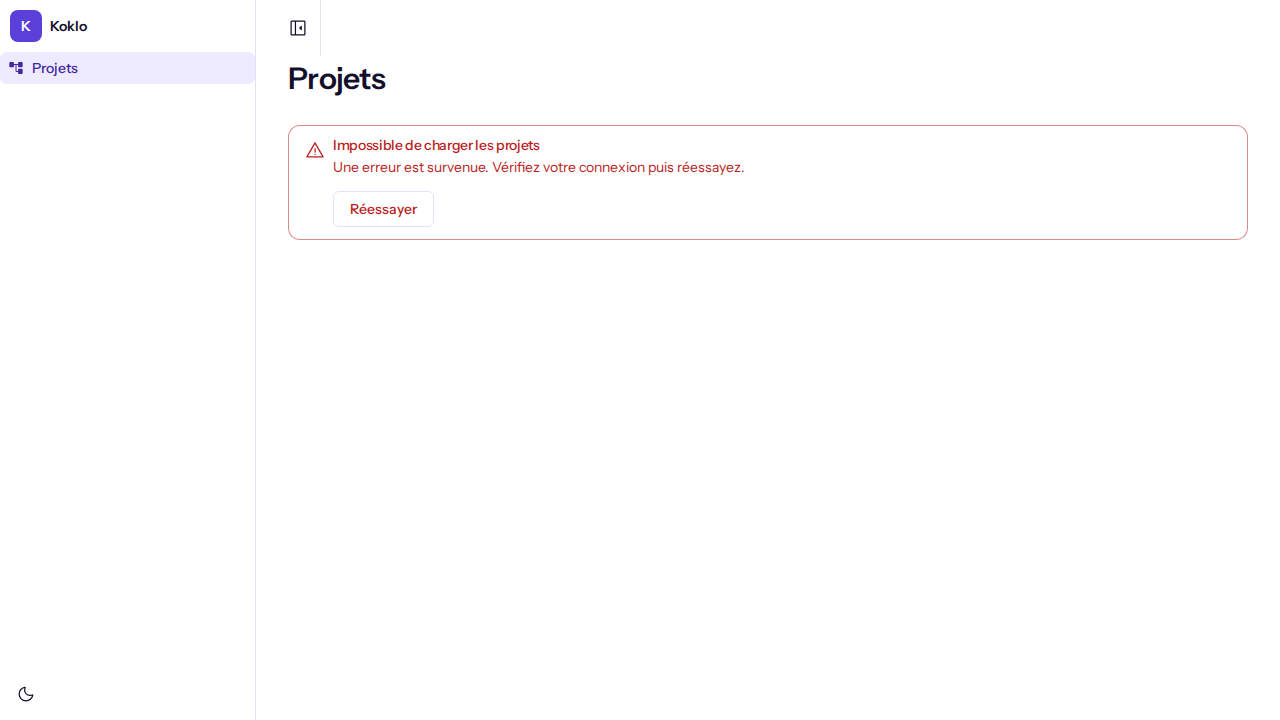
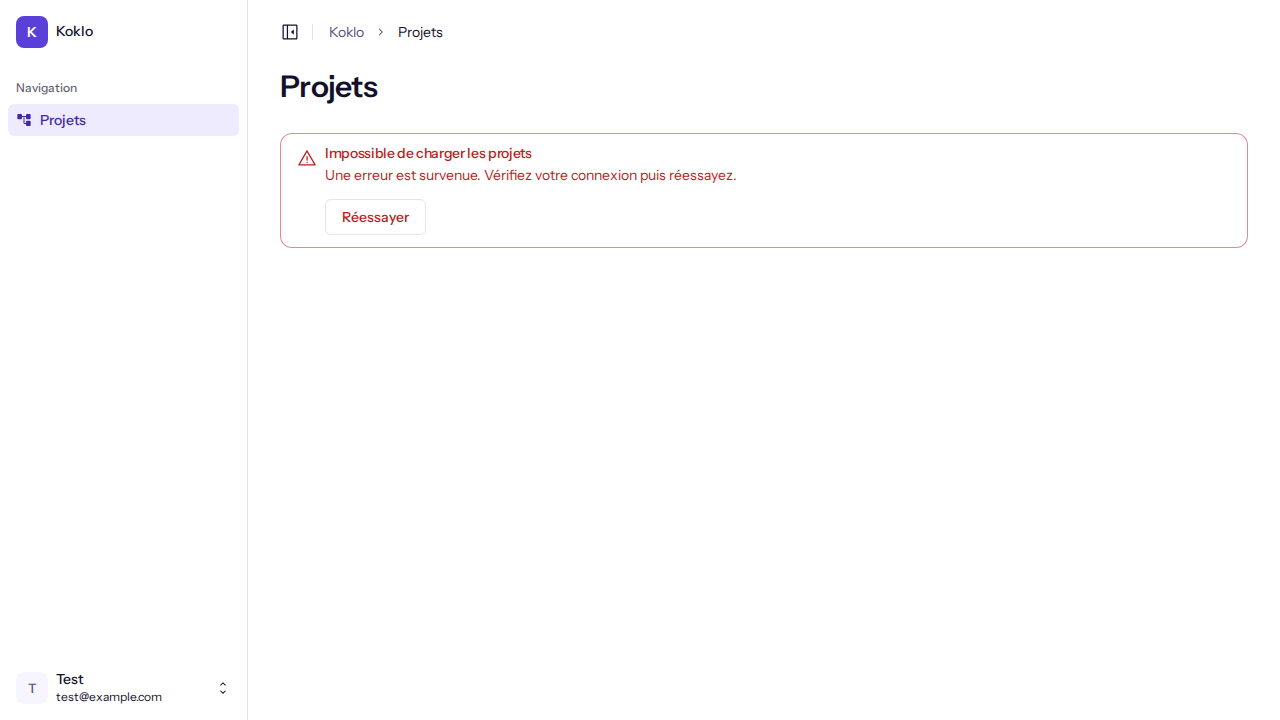
docs(design): update S-login and S-projects and record the TK-85 correction
Screen sheets v3 with the sidebar-07 / login-05 decisions, real light and dark
captures, functional guide, quality notes and the 2026-10-28 correction report.

Refs TK-85

diff --git a/docs/quality-and-operations.md b/docs/quality-and-operations.md
@@ -26,9 +26,6 @@ covers_commit: 558d95f
   `deep-import` fixture (`web` importing `@fixture/ui/src/button`) must make
   `check-deep-imports` exit 1; `exports` patterns and the real repository (no deep
   import) are also covered. Do not "fix" the violating fixtures.
-- **Size gate under test** (`packages/config/test/check-size.test.ts`): covers the
-  acceptance criteria of TK-2 (301-line source file fails, waiver handling, migrations
-  and generated files not counted). Test names and fixtures: see the file.
 - **Contract tests** (`packages/contract/test/contract.test.ts`, TK-9): CT-2/CT-3 check
   the `health` and `project.list` schemas by validating accepted and rejected values;
   CT-4 checks explicit, unique method + path pairs (`GET /health`, `GET /projects`);
@@ -105,14 +102,6 @@ covers_commit: 558d95f
   `turbo boundaries` and the deep-import check (TK-3, see
   [architecture.md](architecture.md#package-boundaries-tk-3)). Any of the three failing
   fails the lint.
-- `pnpm check:size` (also run by `pnpm lint`, after `biome ci`): fails when a source
-  file exceeds 300 lines or a test file 500 lines, unless covered by a non-expired
-  waiver in `.koklo/waivers.yaml`. Failure output is one line per file on stderr,
-  prefixed `check:size`, e.g. `path/file.ts : 301 lignes (limite 300)`; an expired
-  waiver adds `dérogation expirée le <date> (<auteur>)`. Details and the waiver
-  format: [architecture.md](architecture.md#file-size-gate-checksize-tk-2).
-  Adding a waiver: append an entry to `waivers:` in `.koklo/waivers.yaml` with a real
-  justification and an expiry date; remove it once the file is split.
 - `pnpm typecheck`: `tsc --noEmit` against `tsconfig.base.json` (TypeScript 7.0.2).
 - `pnpm build`: `packages/config` has nothing to build (`echo 'nothing to build'`);
   `packages/ui` compiles its entry point (components, `Icon`, `cn`) to `dist/` with `tsc -p tsconfig.build.json`.
@@ -259,28 +248,29 @@ install --with-deps chromium` first). `turbo run e2e` still only runs the stub-A
 
 ## App shell and login blocks (TK-85)
 
-`apps/web` uses the shadcn blocks `sidebar-07` (app shell) and `login-05` (login page), installed
-with the shadcn CLI; shared components live in `@koklo/ui`. Only tokens, icons (`Icon`, Material
-Symbols Rounded) and copy differ from the blocks. Screen contracts: `design/screens/S-login.md`
-and `design/screens/S-projects.md` (both version 2).
+`apps/web` uses the shadcn blocks `sidebar-07` (app shell) and `login-05` (login page), **generated by
+the shadcn CLI 4.23.0** (`npx shadcn@latest add sidebar-07` then `add login-05 --overwrite`, from
+`apps/web`, configured by `apps/web/components.json`). Block files are kept faithful to the CLI output:
+`app-sidebar`, `nav-main`, `nav-projects`, `nav-user`, `team-switcher`, `login-form` in
+`apps/web/src/components`, and `sidebar`, `breadcrumb`, `collapsible`, `field`, `label` in
+`packages/ui/src/components`. The shell is mounted by `apps/web/src/app/projects/layout.tsx`.
+Only imports, tokens, icons (`Icon`, Material Symbols Rounded) and French copy differ from the blocks.
+Screen contracts: `design/screens/S-login.md` and `design/screens/S-projects.md`.
 
-Tests that guard it (viewport simulated by `test/viewport.ts` in `apps/web` and `packages/ui`;
-`setup.ts` of both packages updated accordingly):
-- `packages/ui/test/sidebar.test.tsx`: exports, `SidebarTrigger` (named button, `aria-expanded`,
-  Enter and Ctrl+B), no `complementary` landmark, mobile `Sheet` (Escape closes and returns focus
-  to the trigger), 768 px breakpoint (768 desktop, 767 mobile), tooltip on keyboard focus.
-- `packages/ui/test/sidebar-tokens.test.ts`: every `--sidebar-*` variable in `theme.css` is
-  colour-literal free in light and dark, exposed to Tailwind, width `15.5rem` (248 px).
-- `packages/ui/test/no-hardcoded-colors.test.ts`: no hard-coded colour and no inline SVG
-  (Lucide) in the added components.
-- `apps/web/test/app-shell-sidebar.test.tsx`: `data-testid="app-shell"` kept, one `main`,
-  `nav` "Navigation principale" with `aria-current="page"`, no demo data, focus order, light/dark
-  toggle, mobile `Sheet`.
-- `apps/web/test/login-05.test.tsx`: single GitHub provider, no input field, layout, states
-  (redirecting with `aria-busy`, then error alert).
-- Playwright (stub API, `apps/web/e2e/sidebar.spec.ts`): keyboard collapse/expand, Tab order with
-  visible focus, axe WCAG AA in light and dark, expanded and collapsed, mobile `Sheet`. In
-  `projects.spec.ts` the 375 px test now opens the sidebar ("Ouvrir la barre latérale") before
-  checking the 44 px theme toggle, which lives inside the `Sheet` on mobile.
+Lint: `packages/ui/biome.json` has one override, limited to the five generated `packages/ui` files,
+turning off 7 rules their upstream code violates (function length, `noDocumentCookie`, `noDoubleEquals`,
+`noArrayIndexKey`, `useExhaustiveDependencies`, `useSemanticElements`, `useFocusableInteractive`).
+Each was checked as still needed on 2026-10-28.
+
+Tests that guard it:
+- `packages/ui/test/sidebar.test.tsx`, `sidebar-parts.test.tsx`: exports, `SidebarTrigger`, no
+  `complementary` landmark, mobile `Sheet`, 768 px breakpoint, rail "Réduire ou agrandir la barre latérale".
+- `packages/ui/test/shadcn-blocks.test.ts`, `apps/web/test/shadcn-blocks-files.test.ts`: block files
+  present, single-file sidebar, no leftover hand-made split.
+- `packages/ui/test/sidebar-tokens.test.ts`, `no-hardcoded-colors.test.ts`: `--sidebar-*` tokens, no colour literal.
+- `apps/web/test/projects-layout.test.tsx` (shell, one `main`, `nav`, projects from `project.list`),
+  `login-form.test.tsx` (single GitHub provider, states, notice).
+- Playwright (stub API): `sidebar.spec.ts` (keyboard, axe AA light/dark, mobile `Sheet`), `login.spec.ts`,
+  `projects.spec.ts`.
 
 Selector changes for the real-stack e2e of TK-15: TO DOCUMENT (not part of this diff).

diff --git a/design/screens/S-projects.md b/design/screens/S-projects.md
@@ -1,7 +1,7 @@
 ---
 id: S-projects
 titre: Liste des projets
-version: 2
+version: 3
 ---
 ## 1. Utilisateurs et objectif
 Personne connectée (vue équipe d'abord). Elle arrive après la connexion (`/projects`). Objectif : voir les projets auxquels elle a accès. Cet écran décrit aussi le **gabarit d'application** réutilisé par les écrans suivants.
@@ -17,6 +17,7 @@ Source : `project.list` (`{ id: uuid, name: string }[]`).
 - Titre de page « Projets » (h1, 30 px/600).
 - Données : colonne unique « Nom » (`name`). `id` n'est pas affiché (identifiant technique).
 - Gabarit (`sidebar-07`, TK-85) : logo « K » + nom « Koklo » en tête de barre latérale ; une entrée de navigation « Projets » (icône `account_tree`, `aria-current="page"`, remplie car active) ; bascule de thème en pied de barre ; `SidebarTrigger` dans l'en-tête du contenu. Aucune donnée de démo du bloc (équipes, projets factices, utilisateur).
+- Correction TK-85 : blocs fidèles, installés par la CLI. En-tête de barre : TeamSwitcher « Koklo » seul (logo K, sans menu). Navigation : NavMain « Projets » (sans sous-menu). Groupe NavProjects : projets réels de `project.list`, non cliquables, masqué si vide, en chargement ou en erreur. Pied : NavUser (nom, e-mail, initiales de la session ; menu = thème + « Se déconnecter » via `signOut`). En-tête de contenu : `SidebarTrigger`, séparateur, fil d'Ariane « Koklo > Projets ». La bascule de thème quitte le pied de barre pour le menu utilisateur.
 - Pied de barre latérale : `APP_VERSION` non affichée (pas de besoin utilisateur).
 
 ## 4. États
@@ -36,7 +37,7 @@ Sous 768 px : barre latérale masquée, ouverte en `Sheet` par le trigger de l'e
 
 ## 7. Accessibilité
 - Repères : `nav` (aria-label « Navigation principale ») dans la sidebar, `main` dans `SidebarInset`, titre h1 unique, aucun `aside` vide. `data-testid="app-shell"` conservé.
-- Ordre de focus : trigger, lien « Projets », bascule de thème, contenu (« Réessayer » en erreur). Focus visible. Mobile : Sheet avec focus piégé, Échap ferme et restitue le focus au trigger.
+- Ordre de focus : trigger, lien « Projets », bascule de thème, contenu (« Réessayer » en erreur). Focus visible. Menu utilisateur : `aria-label` « Menu utilisateur », Échap restitue le focus. Mobile : Sheet avec focus piégé, Échap ferme et restitue le focus au trigger.
 - `SidebarTrigger` : vrai `button`, `aria-label` « Réduire la barre latérale » / « Ouvrir la barre latérale », `aria-expanded` ; icônes `left_panel_close` / `left_panel_open`. Replié, le texte des liens reste sr-only et un Tooltip s'affiche au survol et au focus. Raccourci Ctrl/Cmd+B du bloc conservé.
 - Item actif : `aria-current="page"` posé explicitement (le bloc ne pose que `data-active`).
 - Bascule de thème : `IconButton` `aria-label` « Passer au thème sombre » / « Passer au thème clair » ; `dark_mode` en clair, `light_mode` en sombre.
@@ -52,11 +53,13 @@ Sous 768 px : barre latérale masquée, ouverte en `Sheet` par le trigger de l'e
 4. **Erreur en ligne avec « Réessayer »** contre redirection vers une page d'erreur : l'utilisateur garde le contexte et la navigation.
 5. **Panneau de détail absent du DOM** contre colonne vide visible : une colonne vide de 380 px fait croire à une fonction manquante.
 6. **`--sidebar` = `var(--card)` + bordure (TK-85)** contre teinte dédiée ou `--muted` : pas de nouveau token, pas d'ombre (DESIGN §5).
-7. **Pied de barre = bascule de thème seule** contre menu utilisateur de démo : aucune déconnexion dans le lot.
+7. **NavUser réel (retenu, correction TK-85)** contre bascule de thème seule ou menu de démo (Compte, Facturation, Notifications) : seules actions réelles, thème et déconnexion.
+8. **TeamSwitcher à entrée unique sans menu** contre équipes factices ou « Ajouter une équipe » : aucune notion d'équipe dans le contrat.
 
 ## 9. Questions ouvertes
 - Colonnes à ajouter au tableau quand le contrat exposera plus que `id` et `name`.
-- Menu utilisateur (avatar, déconnexion) : non prévu dans ce lot, aucune sortie de session visible ; à décider.
+- Icône `logout` absente de DESIGN §4 : ajoutée au générateur pour « Se déconnecter » (TK-85 correction).
+- Items de navigation 32 px (bloc) contre 36-38 px (DESIGN §5) : bloc conservé ; 44 px sous 768 px.
 - Repli en icônes (`collapsible="icon"`) absent de DESIGN §5 : conservé car c'est le bloc demandé (Q1 TK-85).
 - Largeur 248 px (DESIGN §5) préférée aux 256 px du bloc.
 - Cookie `sidebar_state` du bloc (état de repli, sans donnée personnelle) : à citer dans la future politique de confidentialité.
@@ -67,3 +70,4 @@ Sous 768 px : barre latérale masquée, ouverte en `Sheet` par le trigger de l'e
 |---|---|---|---|
 | 1 | 2026-10-27 | TK-14 | Création : gabarit d'application et liste des projets, 4 états + redirection |
 | 2 | 2026-10-27 | TK-85 | Gabarit remplacé par `sidebar-07` : repli en icônes, Sheet mobile, mapping `--sidebar-*` sur les tokens, 248 px, nav nommée et `aria-current` conservés ; contenu et 4 états inchangés. Détail : `.workflow/TK-85/02-design.md` |
+| 3 | 2026-10-28 | TK-85 (correction) | Retour à `sidebar-07` fidèle (CLI) : TeamSwitcher, NavMain, NavProjects réels, NavUser avec déconnexion, fil d'Ariane ; largeur 248 px et marges 32/16 px alignées sur DESIGN §5, reste du bloc conservé ; 44 px mobile. Détail : `.workflow/TK-85/02-design.md` |

diff --git a/design/screens/S-login.md b/design/screens/S-login.md
@@ -1,7 +1,7 @@
 ---
 id: S-login
 titre: Connexion
-version: 2
+version: 3
 ---
 ## 1. Utilisateurs et objectif
 Toute personne non connectée (vue équipe d'abord ; la vue client suivra avec ses propres entrées). Elle arrive par l'URL de l'application ou par la redirection depuis `/projects` sans session. Objectif : ouvrir une session via GitHub, le seul fournisseur du lot.
@@ -14,6 +14,7 @@ Toute personne non connectée (vue équipe d'abord ; la vue client suivra avec s
 
 ## 3. Contenu
 Ordre d'importance : logo « K » temporaire (repère, pas une marque) ; titre « Connexion à Koklo » (h1) ; phrase « Connectez-vous avec votre compte GitHub pour accéder à vos projets. » ; bouton principal ; bascule de thème en haut à droite. Aucune donnée oRPC. Aucun champ de saisie : les champs e-mail/mot de passe, « mot de passe oublié », Apple/Google, inscription et mentions légales de `login-05` sont retirés.
+Mention sous le bouton (correction TK-85) : « Vous serez redirigé vers GitHub pour vous authentifier. », sans lien (les conditions d'utilisation et la confidentialité de `login-05` n'existent pas).
 Mise en page (TK-85) : colonne centrée, `bg-muted`, logo « K » au-dessus de la `Card`, bascule de thème en haut à droite.
 
 ## 4. États
@@ -45,6 +46,8 @@ Sous 768 px : la carte occupe la largeur moins deux marges de 16 px, bouton plei
 5. **`login-05` (TK-85, retenu)** contre variantes à visuel scindé (`login-03`/`login-04`) : un visuel serait inventé ; seuls tokens, icônes et textes s'écartent du bloc.
 6. **Garder les champs e-mail et boutons sociaux du bloc** contre bouton GitHub seul : hors périmètre, aucune fonction derrière.
 
+7. **Mention de conditions sans lien** et **liens `#`** contre notice de redirection : l'une promet des conditions inexistantes, l'autre crée des liens morts. Boutons Google/Apple « bientôt » écartés : fonctions hors vision.
+
 ## 9. Questions ouvertes
 - Logo et marque définitifs (DESIGN.md §8.3) : « K » temporaire.
 - Pas d'icône GitHub dans la bibliothèque d'icônes ; `lock` est utilisée en attendant. Ajouter une icône de marque demanderait une décision (Q3 de TK-85 : `lock` conservée, icône décorative `aria-hidden`).
@@ -55,3 +58,4 @@ Sous 768 px : la carte occupe la largeur moins deux marges de 16 px, bouton plei
 |---|---|---|---|
 | 1 | 2026-10-27 | TK-14 | Création : connexion GitHub, carte centrée, thème clair par défaut (H-24) |
 | 2 | 2026-10-27 | TK-85 | Adoption de `login-05` (CLI shadcn) : même contenu, textes et états ; éléments hors périmètre retirés ; largeur 384 px ; tokens et icônes du projet, `lock` conservée. Détail : `.workflow/TK-85/02-design.md` |
+| 3 | 2026-10-28 | TK-85 (correction) | Bloc `login-05` installé fidèle par la CLI ; retraits purement soustractifs confirmés ; mentions légales remplacées par une notice de redirection sans lien. Détail : `.workflow/TK-85/02-design.md` |

diff --git a/docs/changelog/reports/2026-10-28-TK-85.md b/docs/changelog/reports/2026-10-28-TK-85.md
@@ -1,0 +1,23 @@
+---
+doc_version: 0.1.0
+status: draft
+last_reviewed: 2026-10-28
+covers_commit: 30823a8
+---
+# Correction report — 2026-10-28 (TK-85, blocs générés par la CLI shadcn)
+
+Supersedes the "Architecture" and "shadcn CLI provenance" sections of
+[2026-10-27-TK-85.md](2026-10-27-TK-85.md), which described a hand-adapted copy.
+
+## What changed
+- Blocks are now generated by `shadcn@4.23.0` (`add sidebar-07`, `add login-05 --overwrite`) from `apps/web`
+  (`components.json`). `app-shell.tsx` and `login-card.tsx` are gone; the shell is `app-sidebar`, `nav-main`,
+  `nav-projects` (real `project.list`), `nav-user` (session, theme, sign-out), `team-switcher`, mounted in
+  `app/projects/layout.tsx`; login is `login-form.tsx` (GitHub only).
+- `packages/ui`: `sidebar.tsx` is again one file (the `sidebar-context/group/menu` split is removed); `breadcrumb`,
+  `collapsible`, `field`, `label` added. Icon `logout` added.
+- Residual English fixed: rail label is "Réduire ou agrandir la barre latérale".
+- Biome override for the five generated files kept: all 7 disabled rules still fire on them.
+
+## Open point
+Governance decision on that override (generated code vs. project lint rules) still to be validated.

diff --git a/docs/functional/guides/navigate-the-app.md b/docs/functional/guides/navigate-the-app.md
@@ -3,7 +3,7 @@ title: Sign in and move around the application
 audience: functional
 doc_version: 0.1.0
 status: draft
-last_reviewed: 2026-10-27
+last_reviewed: 2026-10-28
 covers_release: unreleased
 sources: []
 covers_commit: 558d95f
@@ -22,7 +22,9 @@ covers_commit: 558d95f
 3. In the side menu, "Projets" is the current page. Use the button at the top of the page
    (**Réduire la barre latérale** / **Ouvrir la barre latérale**), or Ctrl+B (Cmd+B on Mac),
    to fold the menu to icons or open it again. Folded, hover or focus an icon to see its name.
-4. To change theme, use **Passer au thème sombre** / **Passer au thème clair** at the bottom of the menu.
+4. To change theme or sign out, open the user menu (**Menu utilisateur**) at the bottom of the side menu:
+   it offers **Passer au thème sombre** / **Passer au thème clair** and **Se déconnecter**.
+   The folded rail can also be clicked (**Réduire ou agrandir la barre latérale**).
 5. On a phone (narrow screen) the menu is hidden: press **Ouvrir la barre latérale** to open it
    as a drawer; Escape closes it.
 

diff --git a/design/README.md b/design/README.md
@@ -47,5 +47,5 @@ Ce qui mériterait un avis humain. Ça ne bloque rien : l'option la plus conform
 
 | Écran | Version | Dernier ticket |
 |---|---|---|
-| [S-login](screens/S-login.md) | 2 | TK-85 |
-| [S-projects](screens/S-projects.md) | 2 | TK-85 |
+| [S-login](screens/S-login.md) | 3 | TK-85 (correction) |
+| [S-projects](screens/S-projects.md) | 3 | TK-85 (correction) |
